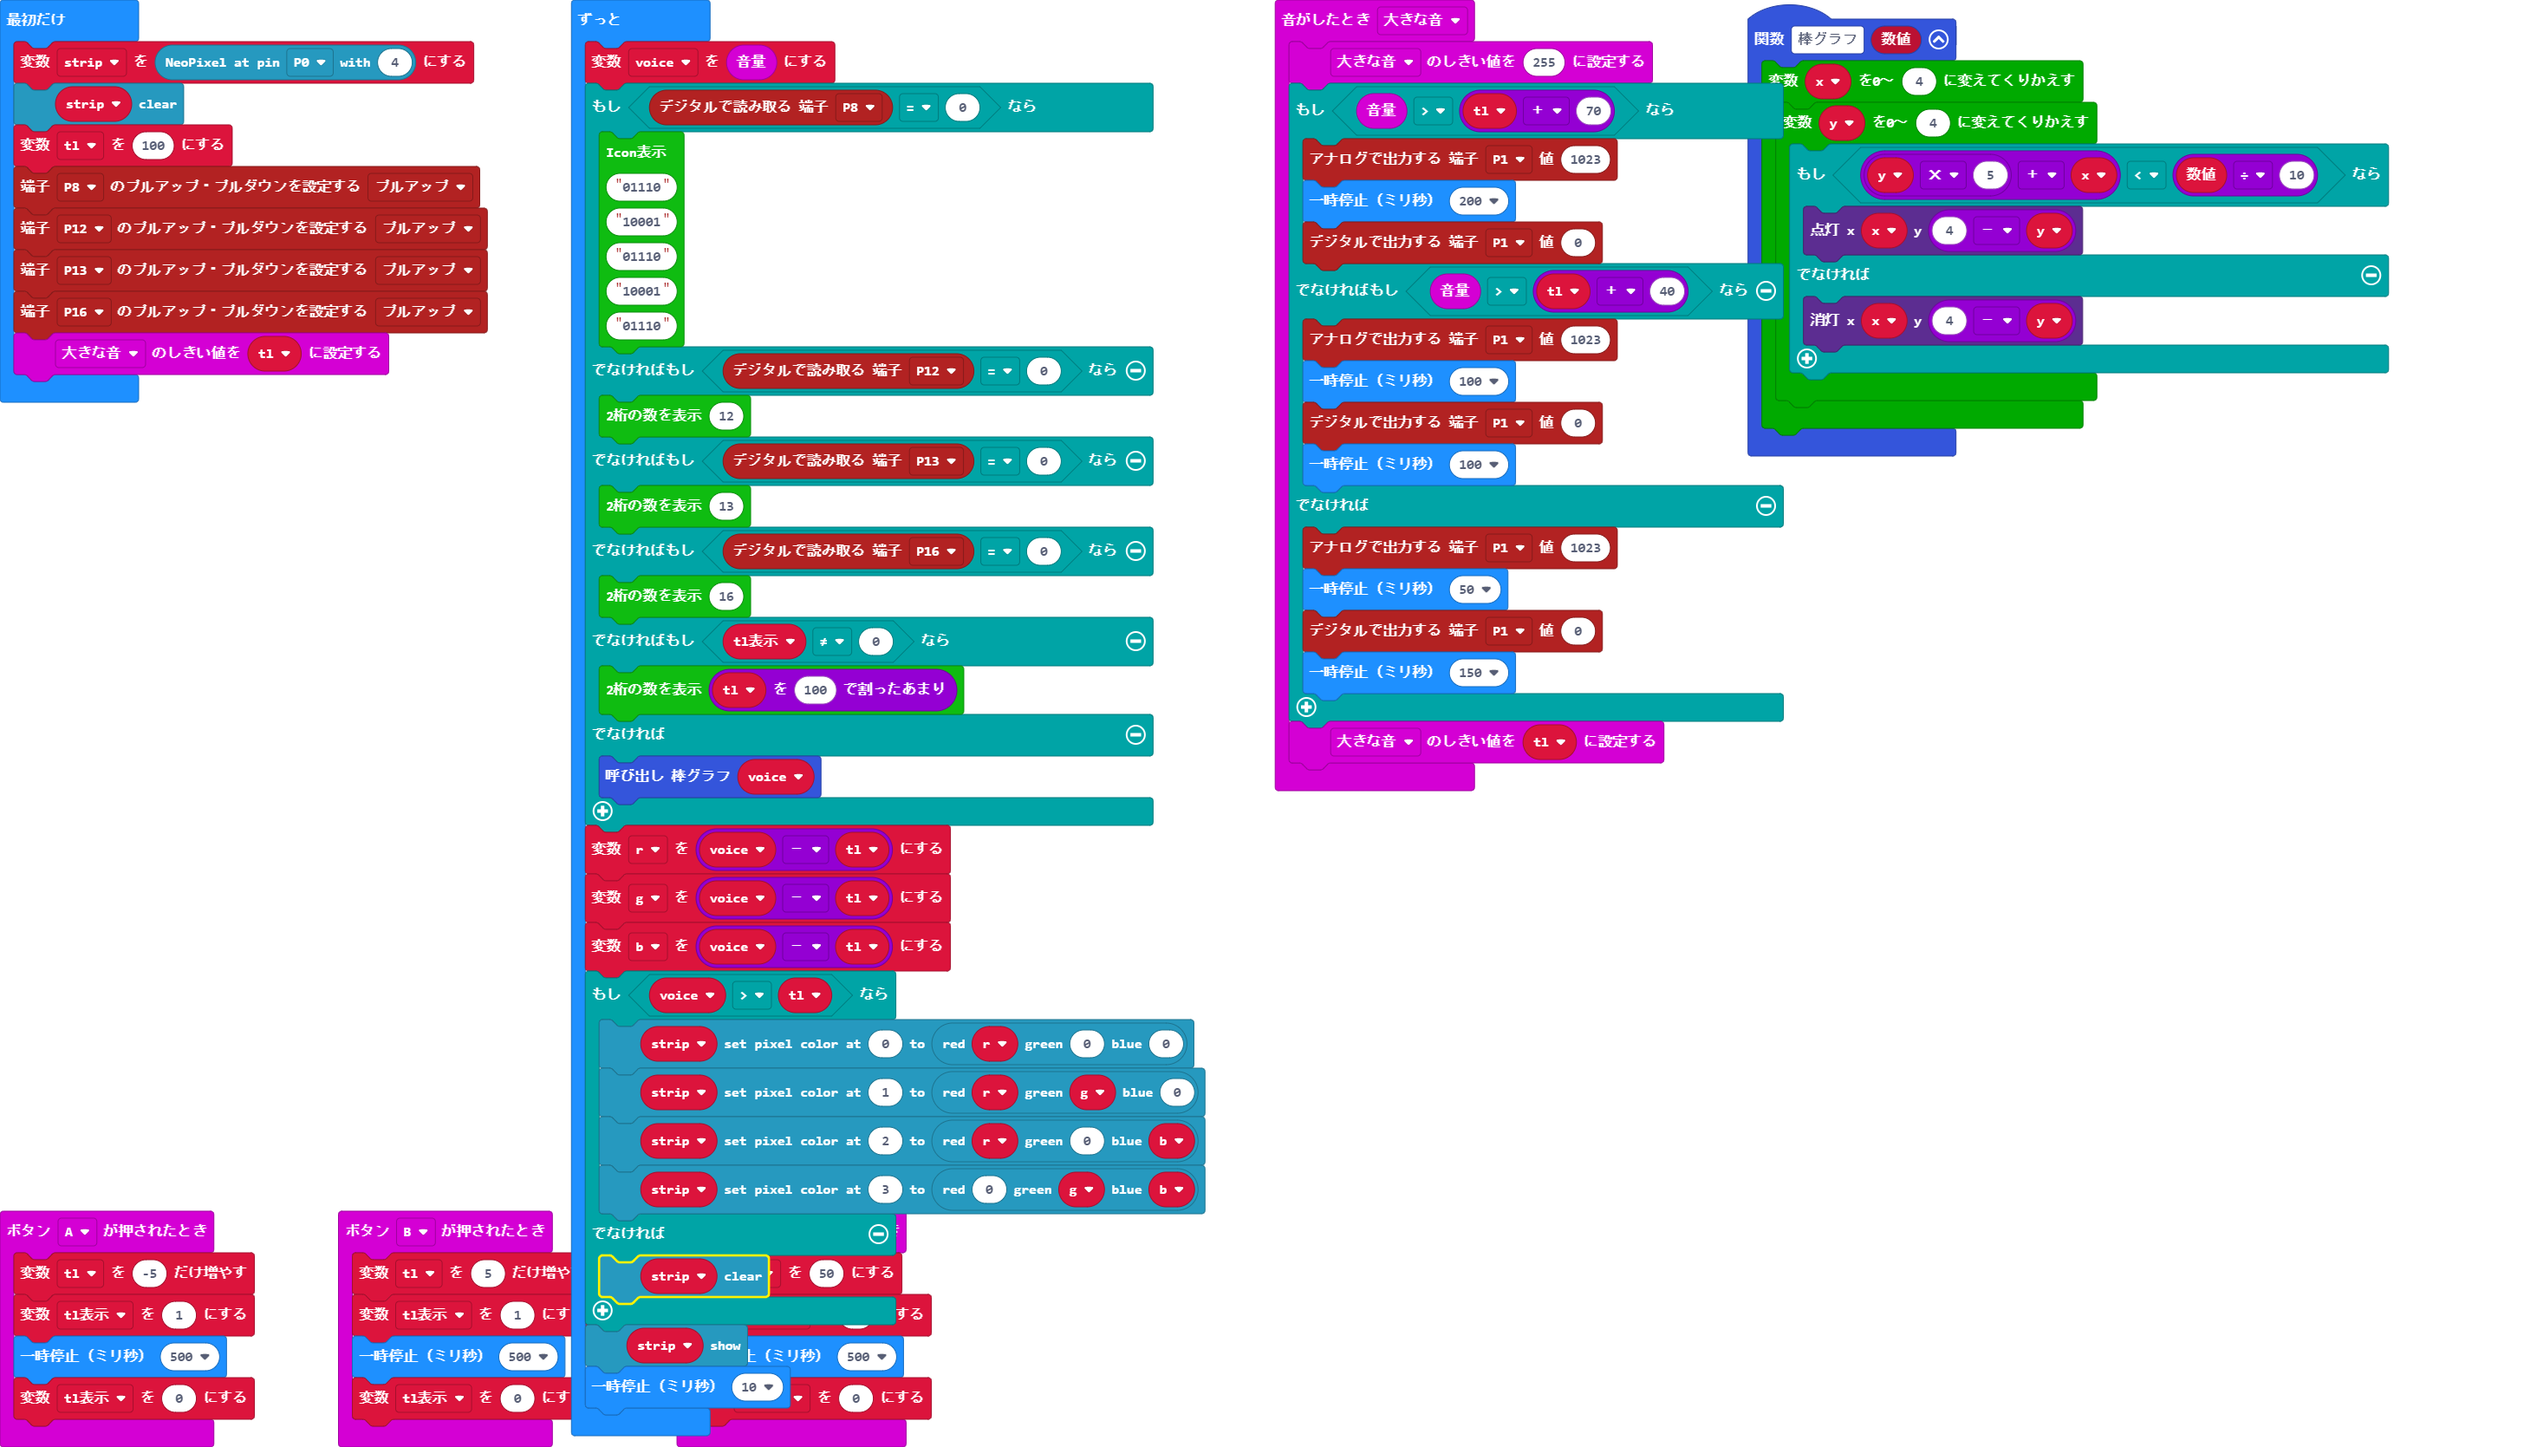
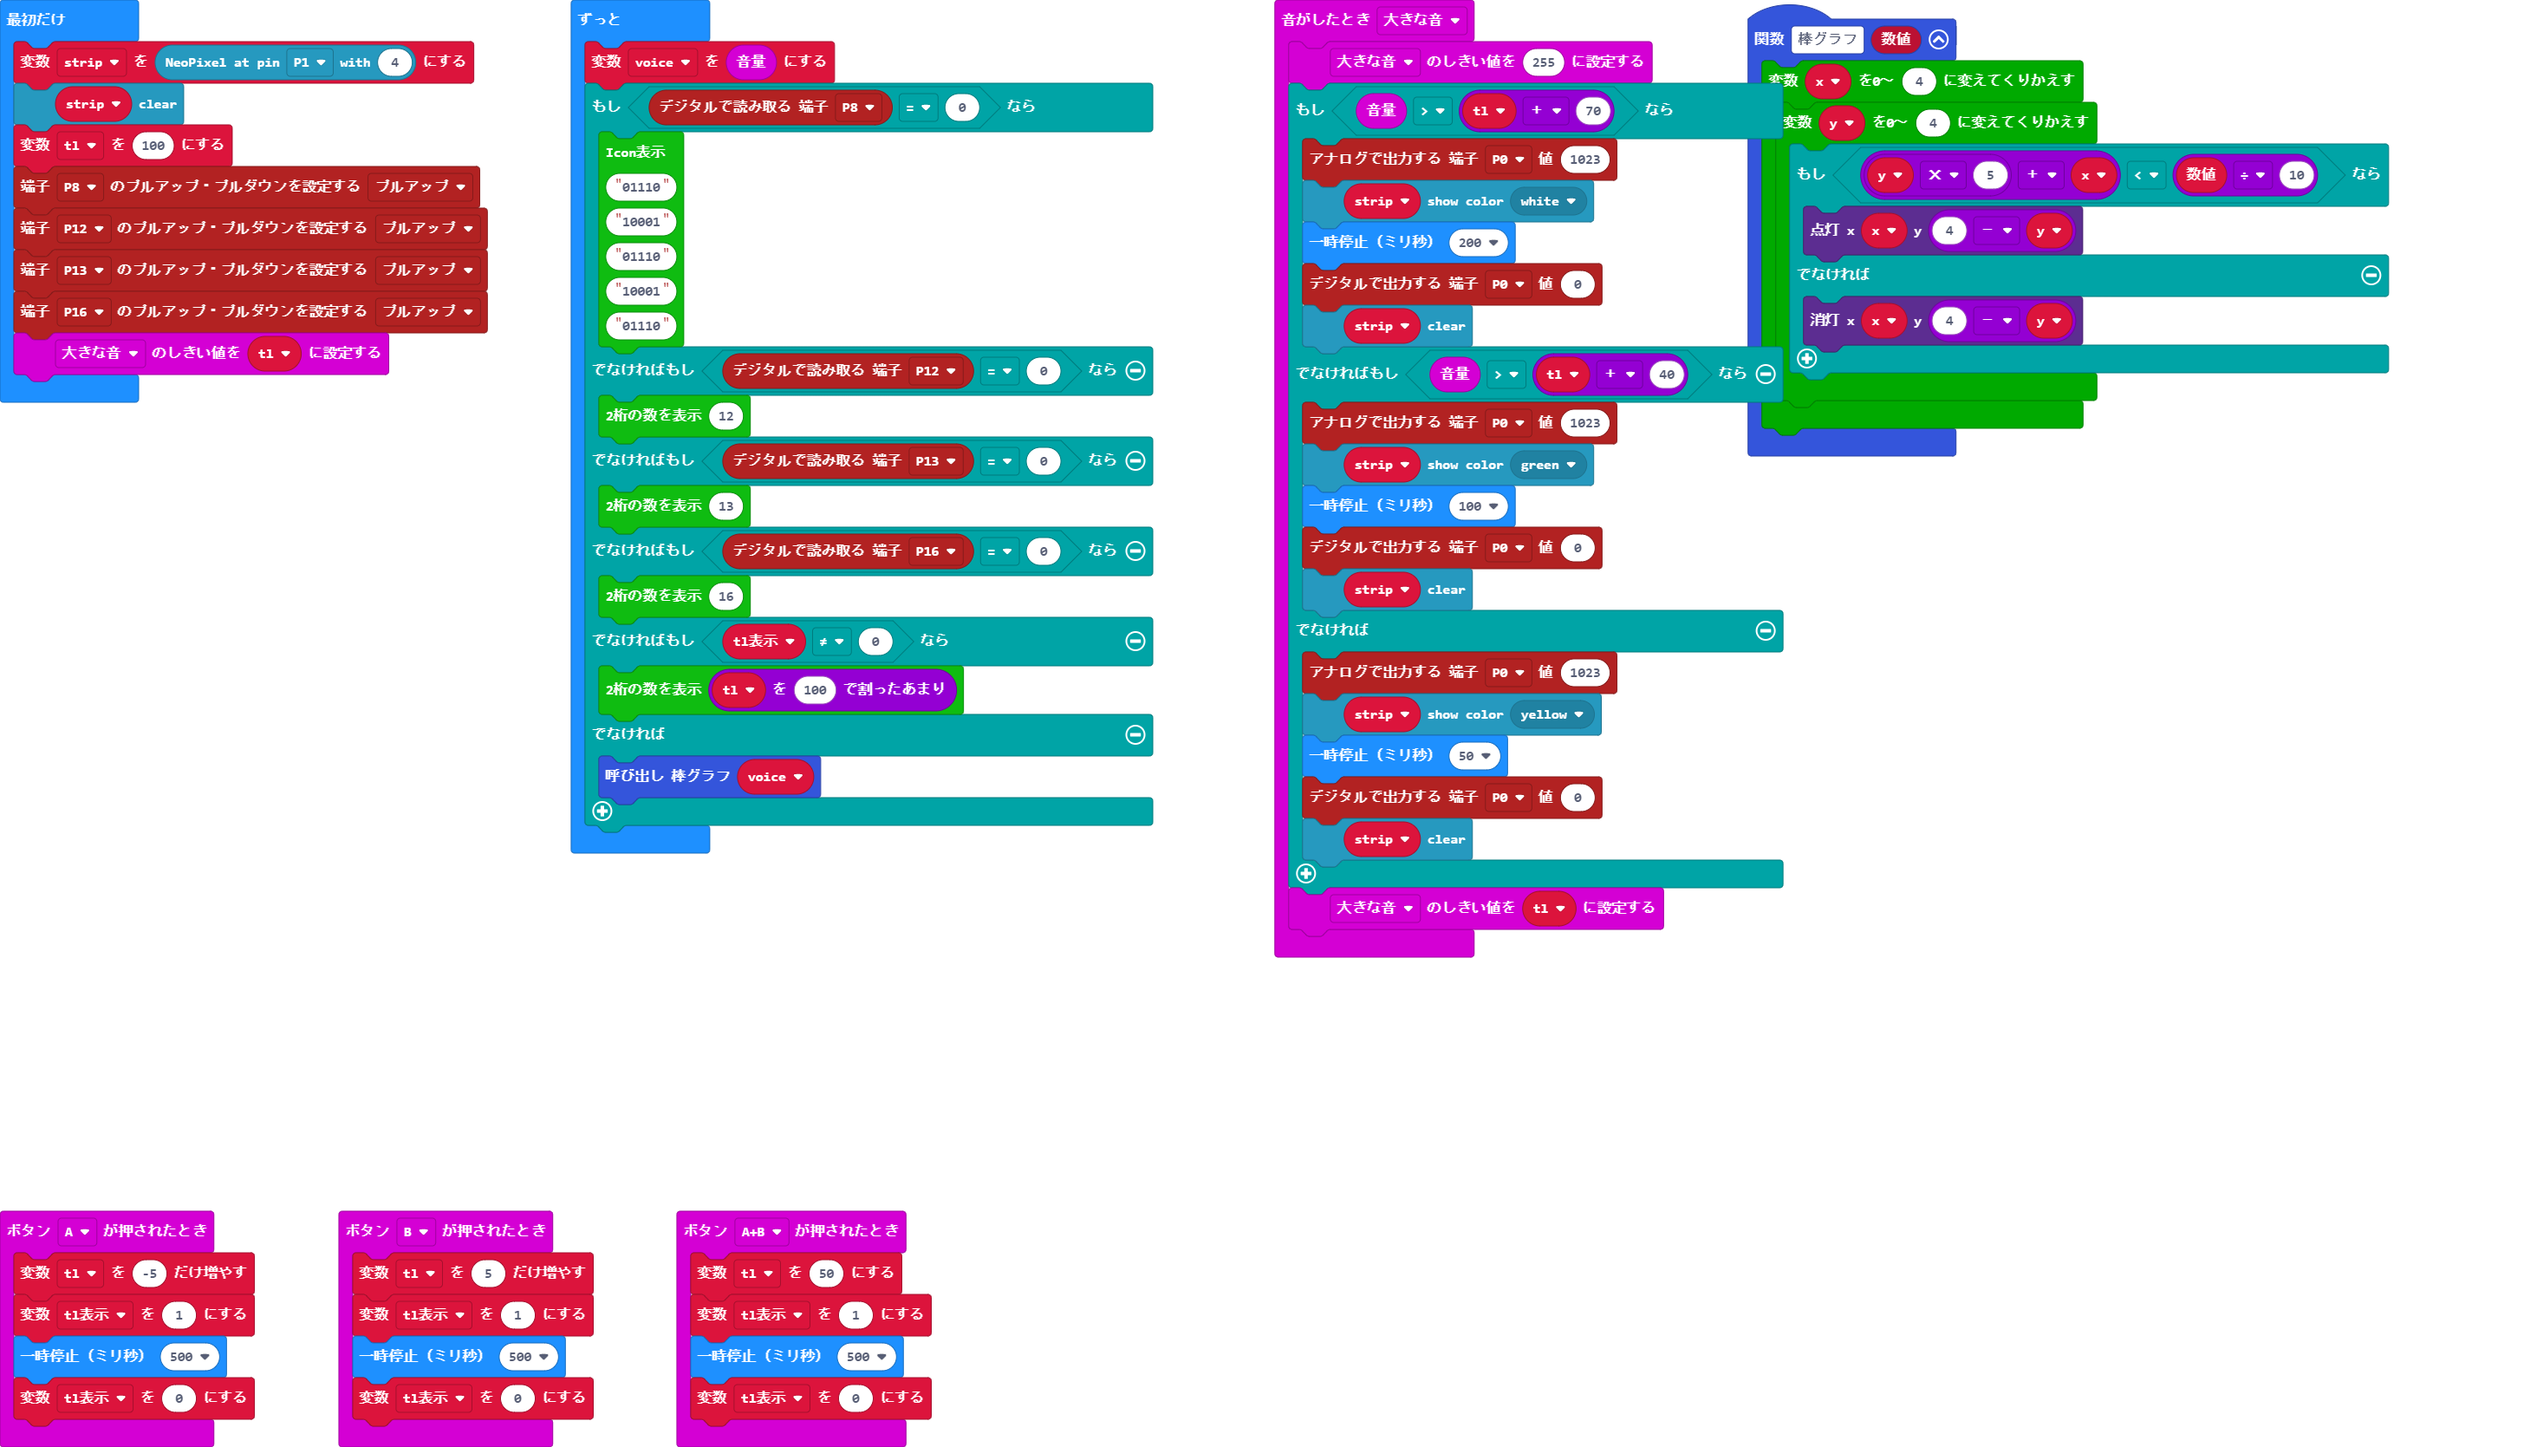
Update main.blocks, main.ts

Changed region(s): [[0.5, 0.1246, 0.7188, 0.6854], [0.2188, 0.5608, 0.5, 0.997]]

diff --git a/main.ts b/main.ts
@@ -18,19 +18,23 @@ input.onButtonPressed(Button.A, function () {
 input.onSound(DetectedSound.Loud, function () {
     input.setSoundThreshold(SoundThreshold.Loud, 255)
     if (input.soundLevel() > tl + 70) {
-        pins.analogWritePin(AnalogPin.P1, 1023)
+        pins.analogWritePin(AnalogPin.P0, 1023)
+        strip.showColor(neopixel.colors(RGBColors.White))
         basic.pause(200)
-        pins.digitalWritePin(DigitalPin.P1, 0)
+        pins.digitalWritePin(DigitalPin.P0, 0)
+        strip.clear()
     } else if (input.soundLevel() > tl + 40) {
-        pins.analogWritePin(AnalogPin.P1, 1023)
+        pins.analogWritePin(AnalogPin.P0, 1023)
+        strip.showColor(neopixel.colors(RGBColors.Green))
         basic.pause(100)
-        pins.digitalWritePin(DigitalPin.P1, 0)
-        basic.pause(100)
+        pins.digitalWritePin(DigitalPin.P0, 0)
+        strip.clear()
     } else {
-        pins.analogWritePin(AnalogPin.P1, 1023)
+        pins.analogWritePin(AnalogPin.P0, 1023)
+        strip.showColor(neopixel.colors(RGBColors.Yellow))
         basic.pause(50)
-        pins.digitalWritePin(DigitalPin.P1, 0)
-        basic.pause(150)
+        pins.digitalWritePin(DigitalPin.P0, 0)
+        strip.clear()
     }
     input.setSoundThreshold(SoundThreshold.Loud, tl)
 })
@@ -46,13 +50,11 @@ input.onButtonPressed(Button.B, function () {
     basic.pause(500)
     tl表示 = 0
 })
-let b = 0
-let g = 0
-let r = 0
 let voice = 0
 let tl表示 = 0
 let tl = 0
-let strip = neopixel.create(DigitalPin.P0, 4)
+let strip: neopixel.Strip = null
+strip = neopixel.create(DigitalPin.P1, 4)
 strip.clear()
 tl = 100
 pins.setPull(DigitalPin.P8, PinPullMode.PullUp)
@@ -81,17 +83,4 @@ basic.forever(function () {
     } else {
         棒グラフ(voice)
     }
-    r = voice - tl
-    g = voice - tl
-    b = voice - tl
-    if (voice > tl) {
-        strip.setPixelColor(0, neopixel.rgb(r, 0, 0))
-        strip.setPixelColor(1, neopixel.rgb(r, g, 0))
-        strip.setPixelColor(2, neopixel.rgb(r, 0, b))
-        strip.setPixelColor(3, neopixel.rgb(0, g, b))
-    } else {
-        strip.clear()
-    }
-    strip.show()
-    basic.pause(10)
 })
